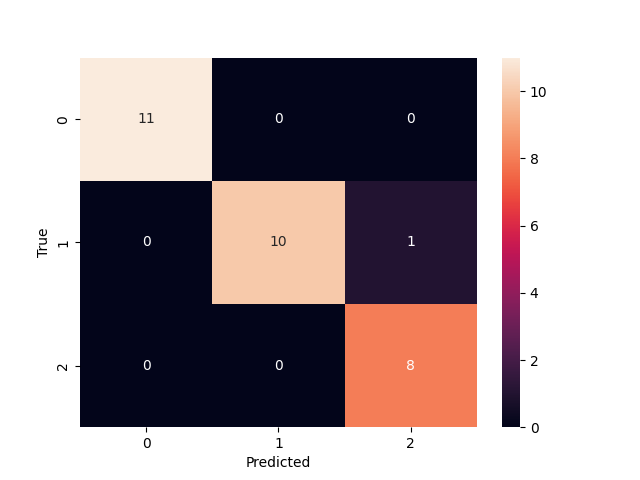
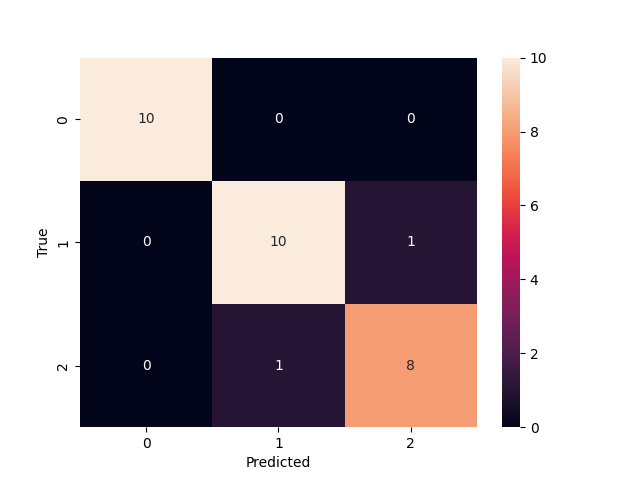
[ci skip] fix: Failing unit test 048f21cd6cc501aa32612e4ede238c9d0504c870

diff --git a/searchindex.js b/searchindex.js
@@ -1,1 +1,1 @@
-Search.setIndex({"alltitles":{"API Reference":[[0,null]],"Computation times":[[3,null],[11,null]],"Example Gallery":[[1,null]],"Examples using icrlearn.ICRRandomForestClassifier":[[4,"examples-using-icrlearn-icrrandomforestclassifier"]],"Fitting and evaluating an ICR Random Forest":[[2,null]],"ICRRandomForestClassifier":[[4,null],[12,"icrrandomforestclassifier"]],"Introduction":[[12,"introduction"]],"Predictor":[[0,"predictor"]],"Rarity Measures":[[0,"rarity-measures"],[12,"rarity-measures"]],"User Guide":[[12,null]],"Utilities":[[0,"utilities"]],"icrlearn.rarity.calculate_cb_loop":[[5,null]],"icrlearn.rarity.calculate_l2class":[[6,null]],"icrlearn.utils.discovery.all_displays":[[7,null]],"icrlearn.utils.discovery.all_estimators":[[8,null]],"icrlearn.utils.discovery.all_functions":[[9,null]],"intra-class-rare-learn Documentation":[[10,null]]},"docnames":["api","auto_examples/index","auto_examples/plot_classifier","auto_examples/sg_execution_times","generated/icrlearn.ICRRandomForestClassifier","generated/icrlearn.rarity.calculate_cb_loop","generated/icrlearn.rarity.calculate_l2class","generated/icrlearn.utils.discovery.all_displays","generated/icrlearn.utils.discovery.all_estimators","generated/icrlearn.utils.discovery.all_functions","index","sg_execution_times","user_guide"],"envversion":{"sphinx":65,"sphinx.domains.c":3,"sphinx.domains.changeset":1,"sphinx.domains.citation":1,"sphinx.domains.cpp":9,"sphinx.domains.index":1,"sphinx.domains.javascript":3,"sphinx.domains.math":2,"sphinx.domains.python":4,"sphinx.domains.rst":2,"sphinx.domains.std":2,"sphinx.ext.intersphinx":1},"filenames":["api.rst","auto_examples/index.rst","auto_examples/plot_classifier.rst","auto_examples/sg_execution_times.rst","generated/icrlearn.ICRRandomForestClassifier.rst","generated/icrlearn.rarity.calculate_cb_loop.rst","generated/icrlearn.rarity.calculate_l2class.rst","generated/icrlearn.utils.discovery.all_displays.rst","generated/icrlearn.utils.discovery.all_estimators.rst","generated/icrlearn.utils.discovery.all_functions.rst","index.rst","sg_execution_times.rst","user_guide.rst"],"indexentries":{"all_displays() (in module icrlearn.utils.discovery)":[[7,"icrlearn.utils.discovery.all_displays",false]],"all_estimators() (in module icrlearn.utils.discovery)":[[8,"icrlearn.utils.discovery.all_estimators",false]],"all_functions() (in module icrlearn.utils.discovery)":[[9,"icrlearn.utils.discovery.all_functions",false]],"apply() (icrlearn.icrrandomforestclassifier method)":[[4,"icrlearn.ICRRandomForestClassifier.apply",false]],"calculate_cb_loop() (in module icrlearn.rarity)":[[5,"icrlearn.rarity.calculate_cb_loop",false]],"calculate_l2class() (in module icrlearn.rarity)":[[6,"icrlearn.rarity.calculate_l2class",false]],"calculate_rarity_scores() (icrlearn.icrrandomforestclassifier method)":[[4,"icrlearn.ICRRandomForestClassifier.calculate_rarity_scores",false]],"decision_path() (icrlearn.icrrandomforestclassifier method)":[[4,"icrlearn.ICRRandomForestClassifier.decision_path",false]],"estimators_samples_ (icrlearn.icrrandomforestclassifier property)":[[4,"icrlearn.ICRRandomForestClassifier.estimators_samples_",false]],"feature_importances_ (icrlearn.icrrandomforestclassifier property)":[[4,"icrlearn.ICRRandomForestClassifier.feature_importances_",false]],"fit() (icrlearn.icrrandomforestclassifier method)":[[4,"icrlearn.ICRRandomForestClassifier.fit",false]],"get_metadata_routing() (icrlearn.icrrandomforestclassifier method)":[[4,"icrlearn.ICRRandomForestClassifier.get_metadata_routing",false]],"get_params() (icrlearn.icrrandomforestclassifier method)":[[4,"icrlearn.ICRRandomForestClassifier.get_params",false]],"icrrandomforestclassifier (class in icrlearn)":[[4,"icrlearn.ICRRandomForestClassifier",false]],"predict() (icrlearn.icrrandomforestclassifier method)":[[4,"icrlearn.ICRRandomForestClassifier.predict",false]],"predict_log_proba() (icrlearn.icrrandomforestclassifier method)":[[4,"icrlearn.ICRRandomForestClassifier.predict_log_proba",false]],"predict_proba() (icrlearn.icrrandomforestclassifier method)":[[4,"icrlearn.ICRRandomForestClassifier.predict_proba",false]],"score() (icrlearn.icrrandomforestclassifier method)":[[4,"icrlearn.ICRRandomForestClassifier.score",false]],"set_fit_request() (icrlearn.icrrandomforestclassifier method)":[[4,"icrlearn.ICRRandomForestClassifier.set_fit_request",false]],"set_params() (icrlearn.icrrandomforestclassifier method)":[[4,"icrlearn.ICRRandomForestClassifier.set_params",false]],"set_score_request() (icrlearn.icrrandomforestclassifier method)":[[4,"icrlearn.ICRRandomForestClassifier.set_score_request",false]]},"objects":{"icrlearn":[[4,0,1,"","ICRRandomForestClassifier"]],"icrlearn.ICRRandomForestClassifier":[[4,1,1,"","apply"],[4,1,1,"","calculate_rarity_scores"],[4,1,1,"","decision_path"],[4,2,1,"","estimators_samples_"],[4,2,1,"","feature_importances_"],[4,1,1,"","fit"],[4,1,1,"","get_metadata_routing"],[4,1,1,"","get_params"],[4,1,1,"","predict"],[4,1,1,"","predict_log_proba"],[4,1,1,"","predict_proba"],[4,1,1,"","score"],[4,1,1,"","set_fit_request"],[4,1,1,"","set_params"],[4,1,1,"","set_score_request"]],"icrlearn.rarity":[[5,3,1,"","calculate_cb_loop"],[6,3,1,"","calculate_l2class"]],"icrlearn.utils.discovery":[[7,3,1,"","all_displays"],[8,3,1,"","all_estimators"],[9,3,1,"","all_functions"]]},"objnames":{"0":["py","class","Python class"],"1":["py","method","Python method"],"2":["py","property","Python property"],"3":["py","function","Python function"]},"objtypes":{"0":"py:class","1":"py:method","2":"py:property","3":"py:function"},"terms":{"":[2,4,10],"0":[2,3,4,5,6,10,11,12],"00":[2,3,11],"01":[3,11],"064":12,"07":12,"1":[2,3,4,5,6,10,11,12],"10":[4,5,12],"100":4,"1016":12,"11":2,"1145":12,"150":12,"1645953":12,"1646195":12,"1649":12,"1652":12,"18":4,"18th":12,"2":[2,4,12],"2009":12,"2014":12,"2015":12,"2025":10,"2_min":4,"3":[4,5],"30":2,"31":10,"5":[4,6],"529":12,"542":12,"651":[2,3,11],"8":2,"89":2,"91":2,"94":2,"95":2,"96":2,"97":2,"A":[4,10,12],"For":[4,12],"If":[4,5,6,8],"In":[2,4,12],"It":[4,10,12],"That":4,"The":[4,5,6,10,12],"These":12,"To":10,"__":4,"about":12,"accordingli":12,"accuraci":[2,4],"acm":12,"across":[4,12],"actual":[7,8,9],"ad":4,"adapt":[4,12],"adjust":[4,12],"al":12,"algorithm":[4,12],"alia":4,"all":[1,4,7,8,9,11],"allow":[4,12],"also":[4,12],"altern":4,"an":[1,3,4,10,11,12],"analyz":12,"ani":4,"annot":2,"api":[10,12],"appli":[4,8,12],"ar":[4,5,6,8,10,12],"arrai":[4,5,6],"assign":[4,5,6,12],"attribut":4,"auto_exampl":3,"auto_examples_jupyt":1,"auto_examples_python":1,"avg":2,"bag":[4,12],"base":[4,5,12],"baseestim":8,"beta":6,"bia":4,"bool":[4,5],"bootstrap":[4,12],"bootstrap_sampl":4,"brought":4,"build":4,"built":[10,12],"b\u0142aszczy\u0144ski":12,"calcul":[4,5,6,12],"calculate_cb_loop":12,"calculate_l2class":12,"calculate_rarity_scor":4,"call":[4,12],"can":[4,12],"cardin":4,"carri":4,"case":[4,12],"cb":[4,5],"cb_loop":4,"cb_loop_ext":4,"cb_score":12,"ccp_alpha":4,"chang":4,"check":4,"child":4,"china":12,"class":[0,4,5,6,7,8,12],"class_weight":4,"classes_":4,"classif":[4,12],"classifi":[2,4,8,12],"classification_report":2,"clf":[2,12],"cluster":8,"code":[1,2],"column":4,"com":12,"common":[5,6],"compat":[10,12],"complex":12,"compon":4,"comput":4,"conf_matr":2,"confer":12,"configur":4,"confus":2,"confusion_matrix":2,"consid":[4,5,6],"consist":4,"contain":4,"control":4,"convert":[4,5,6],"correctli":4,"correspond":[4,12],"count":[4,6],"crawl":8,"creat":4,"criterion":4,"crucial":12,"csc_matrix":[4,5,6],"csr":4,"csr_matrix":4,"data":[4,12],"datapoint":4,"dataset":[2,4,12],"date":10,"decis":4,"decision_path":4,"deep":4,"default":[4,5,6,8],"defin":8,"demonstr":10,"densiti":12,"descript":10,"design":12,"detail":[4,5,10],"detect":12,"dict":4,"directli":4,"displai":7,"distanc":12,"document":4,"doi":12,"download":[1,2],"drawn":4,"dtype":[4,5,6],"due":12,"dure":4,"dynam":4,"e":[4,12],"each":[4,5,6],"edg":12,"either":4,"element":4,"emerg":12,"enabl":4,"enable_metadata_rout":4,"encapsul":4,"end":[2,4],"ensembl":4,"equal":4,"equat":[4,6],"error":4,"estim":[4,8,10,12],"estimators_samples_":4,"et":12,"evalu":[1,3,4,11],"exampl":[2,3,7,8,9,10,11],"execut":[3,11],"exist":[4,12],"expect":4,"expon":6,"extent":[4,5],"f1":2,"factor":12,"fals":[4,5],"featur":4,"feature_importances_":4,"feb":12,"fetch":4,"file":[3,11],"filter":8,"fit":[1,3,4,8,11,12],"float":[4,5,6],"float32":[4,5,6],"footprint":4,"forest":[1,3,4,11,12],"form":[4,12],"format":4,"fraction":4,"from":[2,3,4,7,8,9,11,12],"full":2,"function":[0,8,9],"galleri":[2,10,11],"gener":[1,2,4],"get":[4,7,8,9],"get_metadata_rout":4,"get_param":4,"gini":4,"github":12,"give":4,"given":4,"global":12,"go":2,"goe":4,"guid":[0,4,10],"h":12,"handl":[10,12],"harsh":4,"have":[4,12],"heatmap":2,"high":4,"higher":4,"highest":4,"hong":12,"how":[0,4,10,12],"howev":12,"http":12,"i":[0,4,5,6,7,8,9,10,12],"icr":[1,3,4,11],"icr_rf":4,"icrlearn":[2,12],"icrrandomforestclassifi":2,"identifi":4,"ignor":4,"imbal":12,"imbalanc":12,"impact":12,"implement":12,"import":[2,4,7,8,9,12],"impur":4,"includ":[4,8],"independ":12,"index":4,"indic":[4,5,6],"influenc":12,"inform":[0,4,12],"inherit":8,"input":[4,5,6],"insight":12,"inspect":4,"instanc":[4,12],"instead":4,"int":[4,5,6],"intern":[4,5,6,12],"intra":[0,4,12],"introductori":1,"ipynb":2,"iri":2,"its":[4,5,6,12],"j":12,"jul":10,"jupyt":[1,2],"just":12,"k":12,"kind":8,"knowledg":12,"known":4,"kong":12,"kriegel":12,"kr\u00f6ger":12,"l":4,"l2_score":12,"l2class":[4,6,12],"l2class_psi":4,"label":[4,5,6,12],"latter":4,"leaf":4,"learn":[0,4,12],"least":8,"librari":10,"like":[4,5,6],"linear":[4,6],"link":10,"list":[4,7,8,9],"littl":12,"load":2,"load_iri":[2,4],"local":[5,12],"localoutlierprob":5,"lof":12,"log":4,"loop":[4,5,12],"l\u00b2":12,"machin":12,"macro":2,"mai":[4,12],"manag":12,"mani":4,"map":4,"matplotlib":2,"matrix":[2,4,5,6],"max_depth":4,"max_featur":4,"max_leaf_nod":4,"max_sampl":4,"mb":[3,11],"mean":4,"measur":4,"mechan":4,"mem":[3,11],"member":4,"memori":4,"meta":4,"metadata":4,"metadata_rout":4,"metadatarequest":4,"method":[4,12],"metric":[2,4],"min":12,"min_impurity_decreas":4,"min_rarity_scor":4,"min_samples_leaf":4,"min_samples_split":4,"min_scor":5,"min_weight_fraction_leaf":4,"minimum":[4,5,6],"minut":2,"mislead":4,"model":[4,12],"model_select":2,"modif":12,"modifi":4,"modul":8,"monotonic_cst":4,"more":[0,4,5,12],"multi":4,"n_class":4,"n_estim":4,"n_featur":[4,5,6],"n_job":4,"n_neighbor":[4,5,6],"n_node":4,"n_nodes_ptr":4,"n_output":[4,5,6],"n_sampl":[4,5,6],"name":[4,7,8,9],"natur":12,"ndarrai":[4,5,6],"nearest":12,"neg":4,"neighbor":[4,5,6,12],"neighborhood":[4,5],"neighbourhood":12,"nest":4,"net":4,"neucom":12,"neurocomput":12,"new":[10,12],"node":4,"non":4,"none":[4,8],"normal":4,"note":4,"notebook":[1,2],"nov":12,"novel":12,"np":[4,5,6],"number":[4,5,6],"object":4,"offer":12,"often":12,"one":[4,8],"onli":[4,8],"oob_scor":4,"option":4,"order":4,"origin":4,"other":[4,6],"outlier":[5,12],"overview":10,"p":[4,12],"packag":[0,10,12],"param":4,"paramet":[4,5,6,8],"pass":4,"path":4,"pattern":12,"permutation_import":4,"pipelin":4,"place":10,"pleas":4,"plot":2,"plot_classifi":[2,3,11],"plt":2,"possibl":[4,8],"pp":12,"precis":2,"predict":[2,4,12],"predict_log_proba":4,"predict_proba":4,"print":[2,5],"probabl":[4,5,12],"proceed":12,"process":[4,5],"properti":4,"provid":[4,5,6,10,12],"psi":[4,6],"py":[2,3,11],"pynomali":[4,5,12],"pyplot":2,"python":[1,2],"quantifi":12,"r":4,"rais":4,"random":[1,3,4,11,12],"random_st":4,"randomforestclassifi":4,"rang":[5,6,12],"rare":[0,4,5,6,12],"rariti":[4,10],"rarity_adjustment_method":4,"rarity_measur":[4,12],"rarity_scor":4,"re":4,"real":4,"recal":2,"reduc":4,"reduct":4,"refer":[10,12],"regress":4,"regressor":8,"rel":12,"relev":4,"repositori":10,"repres":12,"request":4,"requir":4,"respect":12,"result":4,"retain":4,"return":[4,5,6,7,8,9],"return_x_i":[2,4],"reveal":12,"rf":4,"right":10,"root":4,"rout":4,"run":2,"same":4,"sampl":[4,5,6,12],"sample_weight":4,"scale":[4,6],"schubert":12,"scikit":4,"score":[2,4,5,6,12],"script":2,"seaborn":2,"search":4,"second":2,"see":[4,5],"self":4,"sens":12,"sensit":4,"set":[2,4,5,6,10,12],"set_config":4,"set_fit_request":4,"set_param":4,"set_score_request":4,"shape":[4,5,6],"should":[4,8],"show":2,"signific":12,"simpl":4,"sinc":4,"singl":4,"sklearn":[2,4,10,12],"slower":4,"smaller":5,"sn":2,"so":4,"some":[2,4],"sourc":[1,2,10],"spars":[4,5,6],"special":12,"specif":8,"specifi":12,"sphinx":[1,2],"split":[2,4],"sqrt":4,"start":10,"stefanowski":12,"store":4,"str":[4,8],"string":[7,8,9],"structur":12,"sub":4,"subconcept":12,"subobject":4,"subpopul":12,"subset":4,"sum":4,"support":[2,4],"t":4,"taken":5,"target":4,"task":12,"test":[2,4,8],"test_siz":2,"th":4,"than":[4,5],"thei":[4,12],"them":4,"therefor":12,"thi":[0,2,4,8,10,12],"through":4,"thu":4,"time":[2,5],"total":[2,3,4,11],"toward":4,"tradit":12,"train":[2,4,12],"train_test_split":2,"transform":8,"tree":4,"true":[2,4,5,12],"tupl":[7,8,9],"two":12,"type":[7,8],"type_filt":8,"unchang":4,"uncommon":12,"understand":12,"uniqu":4,"unless":4,"up":4,"updat":4,"us":[0,10,12],"user":[0,4,10],"usual":12,"util":4,"valu":[4,8],"valuabl":12,"vc1492a":12,"verbos":4,"version":[4,10],"vol":12,"vote":4,"w":4,"warm_start":4,"warn":4,"we":2,"weight":[2,4,12],"well":4,"when":4,"where":[4,5,6,7,8,9],"whether":4,"which":[4,8],"while":4,"whole":12,"wide":4,"within":[4,10,12],"work":4,"would":4,"x":[2,4,5,6,12],"x_leav":4,"x_test":[2,12],"x_train":[2,12],"xlabel":2,"y":[2,4,5,6,12],"y_pred":[2,12],"y_test":2,"y_train":[2,12],"ylabel":2,"you":[4,10],"zero":4,"zimek":12,"zip":[1,2]},"titles":["API Reference","Example Gallery","Fitting and evaluating an ICR Random Forest","Computation times","ICRRandomForestClassifier","icrlearn.rarity.calculate_cb_loop","icrlearn.rarity.calculate_l2class","icrlearn.utils.discovery.all_displays","icrlearn.utils.discovery.all_estimators","icrlearn.utils.discovery.all_functions","intra-class-rare-learn Documentation","Computation times","User guide : contents"],"titleterms":{"all_displai":7,"all_estim":8,"all_funct":9,"an":2,"api":0,"calculate_cb_loop":5,"calculate_l2class":6,"class":10,"comput":[3,11],"discoveri":[7,8,9],"document":10,"evalu":2,"exampl":[1,4],"fit":2,"forest":2,"galleri":1,"guid":12,"icr":2,"icrlearn":[4,5,6,7,8,9],"icrrandomforestclassifi":[4,12],"intra":10,"introduct":12,"learn":10,"measur":[0,12],"predictor":0,"random":2,"rare":10,"rariti":[0,5,6,12],"refer":0,"time":[3,11],"us":4,"user":12,"util":[0,7,8,9]}})
+Search.setIndex({"alltitles":{"API Reference":[[0,null]],"Computation times":[[3,null],[11,null]],"Example Gallery":[[1,null]],"Examples using icrlearn.ICRRandomForestClassifier":[[4,"examples-using-icrlearn-icrrandomforestclassifier"]],"Fitting and evaluating an ICR Random Forest":[[2,null]],"ICRRandomForestClassifier":[[4,null],[12,"icrrandomforestclassifier"]],"Introduction":[[12,"introduction"]],"Predictor":[[0,"predictor"]],"Rarity Measures":[[0,"rarity-measures"],[12,"rarity-measures"]],"User Guide":[[12,null]],"Utilities":[[0,"utilities"]],"icrlearn.rarity.calculate_cb_loop":[[5,null]],"icrlearn.rarity.calculate_l2class":[[6,null]],"icrlearn.utils.discovery.all_displays":[[7,null]],"icrlearn.utils.discovery.all_estimators":[[8,null]],"icrlearn.utils.discovery.all_functions":[[9,null]],"intra-class-rare-learn Documentation":[[10,null]]},"docnames":["api","auto_examples/index","auto_examples/plot_classifier","auto_examples/sg_execution_times","generated/icrlearn.ICRRandomForestClassifier","generated/icrlearn.rarity.calculate_cb_loop","generated/icrlearn.rarity.calculate_l2class","generated/icrlearn.utils.discovery.all_displays","generated/icrlearn.utils.discovery.all_estimators","generated/icrlearn.utils.discovery.all_functions","index","sg_execution_times","user_guide"],"envversion":{"sphinx":65,"sphinx.domains.c":3,"sphinx.domains.changeset":1,"sphinx.domains.citation":1,"sphinx.domains.cpp":9,"sphinx.domains.index":1,"sphinx.domains.javascript":3,"sphinx.domains.math":2,"sphinx.domains.python":4,"sphinx.domains.rst":2,"sphinx.domains.std":2,"sphinx.ext.intersphinx":1},"filenames":["api.rst","auto_examples/index.rst","auto_examples/plot_classifier.rst","auto_examples/sg_execution_times.rst","generated/icrlearn.ICRRandomForestClassifier.rst","generated/icrlearn.rarity.calculate_cb_loop.rst","generated/icrlearn.rarity.calculate_l2class.rst","generated/icrlearn.utils.discovery.all_displays.rst","generated/icrlearn.utils.discovery.all_estimators.rst","generated/icrlearn.utils.discovery.all_functions.rst","index.rst","sg_execution_times.rst","user_guide.rst"],"indexentries":{"all_displays() (in module icrlearn.utils.discovery)":[[7,"icrlearn.utils.discovery.all_displays",false]],"all_estimators() (in module icrlearn.utils.discovery)":[[8,"icrlearn.utils.discovery.all_estimators",false]],"all_functions() (in module icrlearn.utils.discovery)":[[9,"icrlearn.utils.discovery.all_functions",false]],"apply() (icrlearn.icrrandomforestclassifier method)":[[4,"icrlearn.ICRRandomForestClassifier.apply",false]],"calculate_cb_loop() (in module icrlearn.rarity)":[[5,"icrlearn.rarity.calculate_cb_loop",false]],"calculate_l2class() (in module icrlearn.rarity)":[[6,"icrlearn.rarity.calculate_l2class",false]],"calculate_rarity_scores() (icrlearn.icrrandomforestclassifier method)":[[4,"icrlearn.ICRRandomForestClassifier.calculate_rarity_scores",false]],"decision_path() (icrlearn.icrrandomforestclassifier method)":[[4,"icrlearn.ICRRandomForestClassifier.decision_path",false]],"estimators_samples_ (icrlearn.icrrandomforestclassifier property)":[[4,"icrlearn.ICRRandomForestClassifier.estimators_samples_",false]],"feature_importances_ (icrlearn.icrrandomforestclassifier property)":[[4,"icrlearn.ICRRandomForestClassifier.feature_importances_",false]],"fit() (icrlearn.icrrandomforestclassifier method)":[[4,"icrlearn.ICRRandomForestClassifier.fit",false]],"get_metadata_routing() (icrlearn.icrrandomforestclassifier method)":[[4,"icrlearn.ICRRandomForestClassifier.get_metadata_routing",false]],"get_params() (icrlearn.icrrandomforestclassifier method)":[[4,"icrlearn.ICRRandomForestClassifier.get_params",false]],"icrrandomforestclassifier (class in icrlearn)":[[4,"icrlearn.ICRRandomForestClassifier",false]],"predict() (icrlearn.icrrandomforestclassifier method)":[[4,"icrlearn.ICRRandomForestClassifier.predict",false]],"predict_log_proba() (icrlearn.icrrandomforestclassifier method)":[[4,"icrlearn.ICRRandomForestClassifier.predict_log_proba",false]],"predict_proba() (icrlearn.icrrandomforestclassifier method)":[[4,"icrlearn.ICRRandomForestClassifier.predict_proba",false]],"score() (icrlearn.icrrandomforestclassifier method)":[[4,"icrlearn.ICRRandomForestClassifier.score",false]],"set_fit_request() (icrlearn.icrrandomforestclassifier method)":[[4,"icrlearn.ICRRandomForestClassifier.set_fit_request",false]],"set_params() (icrlearn.icrrandomforestclassifier method)":[[4,"icrlearn.ICRRandomForestClassifier.set_params",false]],"set_score_request() (icrlearn.icrrandomforestclassifier method)":[[4,"icrlearn.ICRRandomForestClassifier.set_score_request",false]]},"objects":{"icrlearn":[[4,0,1,"","ICRRandomForestClassifier"]],"icrlearn.ICRRandomForestClassifier":[[4,1,1,"","apply"],[4,1,1,"","calculate_rarity_scores"],[4,1,1,"","decision_path"],[4,2,1,"","estimators_samples_"],[4,2,1,"","feature_importances_"],[4,1,1,"","fit"],[4,1,1,"","get_metadata_routing"],[4,1,1,"","get_params"],[4,1,1,"","predict"],[4,1,1,"","predict_log_proba"],[4,1,1,"","predict_proba"],[4,1,1,"","score"],[4,1,1,"","set_fit_request"],[4,1,1,"","set_params"],[4,1,1,"","set_score_request"]],"icrlearn.rarity":[[5,3,1,"","calculate_cb_loop"],[6,3,1,"","calculate_l2class"]],"icrlearn.utils.discovery":[[7,3,1,"","all_displays"],[8,3,1,"","all_estimators"],[9,3,1,"","all_functions"]]},"objnames":{"0":["py","class","Python class"],"1":["py","method","Python method"],"2":["py","property","Python property"],"3":["py","function","Python function"]},"objtypes":{"0":"py:class","1":"py:method","2":"py:property","3":"py:function"},"terms":{"":[2,4,10],"0":[2,3,4,5,6,10,11,12],"00":[2,3,11],"01":[3,11],"064":12,"07":12,"1":[2,3,4,5,6,10,11,12],"10":[2,4,5,12],"100":4,"1016":12,"11":2,"1145":12,"150":12,"1645953":12,"1646195":12,"1649":12,"1652":12,"18":4,"18th":12,"2":[2,4,12],"2009":12,"2014":12,"2015":12,"2025":10,"2_min":4,"3":[4,5],"30":2,"31":10,"5":[4,6],"529":12,"542":12,"764":[2,3,11],"89":2,"9":2,"91":2,"93":2,"A":[4,10,12],"For":[4,12],"If":[4,5,6,8],"In":[2,4,12],"It":[4,10,12],"That":4,"The":[4,5,6,10,12],"These":12,"To":10,"__":4,"about":12,"accordingli":12,"accuraci":[2,4],"acm":12,"across":[4,12],"actual":[7,8,9],"ad":4,"adapt":[4,12],"adjust":[4,12],"al":12,"algorithm":[4,12],"alia":4,"all":[1,4,7,8,9,11],"allow":[4,12],"also":[4,12],"altern":4,"an":[1,3,4,10,11,12],"analyz":12,"ani":4,"annot":2,"api":[10,12],"appli":[4,8,12],"ar":[4,5,6,8,10,12],"arrai":[4,5,6],"assign":[4,5,6,12],"attribut":4,"auto_exampl":3,"auto_examples_jupyt":1,"auto_examples_python":1,"avg":2,"bag":[4,12],"base":[4,5,12],"baseestim":8,"beta":6,"bia":4,"bool":[4,5],"bootstrap":[4,12],"bootstrap_sampl":4,"brought":4,"build":4,"built":[10,12],"b\u0142aszczy\u0144ski":12,"calcul":[4,5,6,12],"calculate_cb_loop":12,"calculate_l2class":12,"calculate_rarity_scor":4,"call":[4,12],"can":[4,12],"cardin":4,"carri":4,"case":[4,12],"cb":[4,5],"cb_loop":4,"cb_loop_ext":4,"cb_score":12,"ccp_alpha":4,"chang":4,"check":4,"child":4,"china":12,"class":[0,4,5,6,7,8,12],"class_weight":4,"classes_":4,"classif":[4,12],"classifi":[2,4,8,12],"classification_report":2,"clf":[2,12],"cluster":8,"code":[1,2],"column":4,"com":12,"common":[5,6],"compat":[10,12],"complex":12,"compon":4,"comput":4,"conf_matr":2,"confer":12,"configur":4,"confus":2,"confusion_matrix":2,"consid":[4,5,6],"consist":4,"contain":4,"control":4,"convert":[4,5,6],"correctli":4,"correspond":[4,12],"count":[4,6],"crawl":8,"creat":4,"criterion":4,"crucial":12,"csc_matrix":[4,5,6],"csr":4,"csr_matrix":4,"data":[4,12],"datapoint":4,"dataset":[2,4,12],"date":10,"decis":4,"decision_path":4,"deep":4,"default":[4,5,6,8],"defin":8,"demonstr":10,"densiti":12,"descript":10,"design":12,"detail":[4,5,10],"detect":12,"dict":4,"directli":4,"displai":7,"distanc":12,"document":4,"doi":12,"download":[1,2],"drawn":4,"dtype":[4,5,6],"due":12,"dure":4,"dynam":4,"e":[4,12],"each":[4,5,6],"edg":12,"either":4,"element":4,"emerg":12,"enabl":4,"enable_metadata_rout":4,"encapsul":4,"end":[2,4],"ensembl":4,"equal":4,"equat":[4,6],"error":4,"estim":[4,8,10,12],"estimators_samples_":4,"et":12,"evalu":[1,3,4,11],"exampl":[2,3,7,8,9,10,11],"execut":[3,11],"exist":[4,12],"expect":4,"expon":6,"extent":[4,5],"f1":2,"factor":12,"fals":[4,5],"featur":4,"feature_importances_":4,"feb":12,"fetch":4,"file":[3,11],"filter":8,"fit":[1,3,4,8,11,12],"float":[4,5,6],"float32":[4,5,6],"footprint":4,"forest":[1,3,4,11,12],"form":[4,12],"format":4,"fraction":4,"from":[2,3,4,7,8,9,11,12],"full":2,"function":[0,8,9],"galleri":[2,10,11],"gener":[1,2,4],"get":[4,7,8,9],"get_metadata_rout":4,"get_param":4,"gini":4,"github":12,"give":4,"given":4,"global":12,"go":2,"goe":4,"guid":[0,4,10],"h":12,"handl":[10,12],"harsh":4,"have":[4,12],"heatmap":2,"high":4,"higher":4,"highest":4,"hong":12,"how":[0,4,10,12],"howev":12,"http":12,"i":[0,4,5,6,7,8,9,10,12],"icr":[1,3,4,11],"icr_rf":4,"icrlearn":[2,12],"icrrandomforestclassifi":2,"identifi":4,"ignor":4,"imbal":12,"imbalanc":12,"impact":12,"implement":12,"import":[2,4,7,8,9,12],"impur":4,"includ":[4,8],"independ":12,"index":4,"indic":[4,5,6],"influenc":12,"inform":[0,4,12],"inherit":8,"input":[4,5,6],"insight":12,"inspect":4,"instanc":[4,12],"instead":4,"int":[4,5,6],"intern":[4,5,6,12],"intra":[0,4,12],"introductori":1,"ipynb":2,"iri":2,"its":[4,5,6,12],"j":12,"jul":10,"jupyt":[1,2],"just":12,"k":12,"kind":8,"knowledg":12,"known":4,"kong":12,"kriegel":12,"kr\u00f6ger":12,"l":4,"l2_score":12,"l2class":[4,6,12],"l2class_psi":4,"label":[4,5,6,12],"latter":4,"leaf":4,"learn":[0,4,12],"least":8,"librari":10,"like":[4,5,6],"linear":[4,6],"link":10,"list":[4,7,8,9],"littl":12,"load":2,"load_iri":[2,4],"local":[5,12],"localoutlierprob":5,"lof":12,"log":4,"loop":[4,5,12],"l\u00b2":12,"machin":12,"macro":2,"mai":[4,12],"manag":12,"mani":4,"map":4,"matplotlib":2,"matrix":[2,4,5,6],"max_depth":4,"max_featur":4,"max_leaf_nod":4,"max_sampl":4,"mb":[3,11],"mean":4,"measur":4,"mechan":4,"mem":[3,11],"member":4,"memori":4,"meta":4,"metadata":4,"metadata_rout":4,"metadatarequest":4,"method":[4,12],"metric":[2,4],"min":12,"min_impurity_decreas":4,"min_rarity_scor":4,"min_samples_leaf":4,"min_samples_split":4,"min_scor":5,"min_weight_fraction_leaf":4,"minimum":[4,5,6],"minut":2,"mislead":4,"model":[4,12],"model_select":2,"modif":12,"modifi":4,"modul":8,"monotonic_cst":4,"more":[0,4,5,12],"multi":4,"n_class":4,"n_estim":4,"n_featur":[4,5,6],"n_job":4,"n_neighbor":[4,5,6],"n_node":4,"n_nodes_ptr":4,"n_output":[4,5,6],"n_sampl":[4,5,6],"name":[4,7,8,9],"natur":12,"ndarrai":[4,5,6],"nearest":12,"neg":4,"neighbor":[4,5,6,12],"neighborhood":[4,5],"neighbourhood":12,"nest":4,"net":4,"neucom":12,"neurocomput":12,"new":[10,12],"node":4,"non":4,"none":[4,8],"normal":4,"note":4,"notebook":[1,2],"nov":12,"novel":12,"np":[4,5,6],"number":[4,5,6],"object":4,"offer":12,"often":12,"one":[4,8],"onli":[4,8],"oob_scor":4,"option":4,"order":4,"origin":4,"other":[4,6],"outlier":[5,12],"overview":10,"p":[4,12],"packag":[0,10,12],"param":4,"paramet":[4,5,6,8],"pass":4,"path":4,"pattern":12,"permutation_import":4,"pipelin":4,"place":10,"pleas":4,"plot":2,"plot_classifi":[2,3,11],"plt":2,"possibl":[4,8],"pp":12,"precis":2,"predict":[2,4,12],"predict_log_proba":4,"predict_proba":4,"print":[2,5],"probabl":[4,5,12],"proceed":12,"process":[4,5],"properti":4,"provid":[4,5,6,10,12],"psi":[4,6],"py":[2,3,11],"pynomali":[4,5,12],"pyplot":2,"python":[1,2],"quantifi":12,"r":4,"rais":4,"random":[1,3,4,11,12],"random_st":4,"randomforestclassifi":4,"rang":[5,6,12],"rare":[0,4,5,6,12],"rariti":[4,10],"rarity_adjustment_method":4,"rarity_measur":[4,12],"rarity_scor":4,"re":4,"real":4,"recal":2,"reduc":4,"reduct":4,"refer":[10,12],"regress":4,"regressor":8,"rel":12,"relev":4,"repositori":10,"repres":12,"request":4,"requir":4,"respect":12,"result":4,"retain":4,"return":[4,5,6,7,8,9],"return_x_i":[2,4],"reveal":12,"rf":4,"right":10,"root":4,"rout":4,"run":2,"same":4,"sampl":[4,5,6,12],"sample_weight":4,"scale":[4,6],"schubert":12,"scikit":4,"score":[2,4,5,6,12],"script":2,"seaborn":2,"search":4,"second":2,"see":[4,5],"self":4,"sens":12,"sensit":4,"set":[2,4,5,6,10,12],"set_config":4,"set_fit_request":4,"set_param":4,"set_score_request":4,"shape":[4,5,6],"should":[4,8],"show":2,"signific":12,"simpl":4,"sinc":4,"singl":4,"sklearn":[2,4,10,12],"slower":4,"smaller":5,"sn":2,"so":4,"some":[2,4],"sourc":[1,2,10],"spars":[4,5,6],"special":12,"specif":8,"specifi":12,"sphinx":[1,2],"split":[2,4],"sqrt":4,"start":10,"stefanowski":12,"store":4,"str":[4,8],"string":[7,8,9],"structur":12,"sub":4,"subconcept":12,"subobject":4,"subpopul":12,"subset":4,"sum":4,"support":[2,4],"t":4,"taken":5,"target":4,"task":12,"test":[2,4,8],"test_siz":2,"th":4,"than":[4,5],"thei":[4,12],"them":4,"therefor":12,"thi":[0,2,4,8,10,12],"through":4,"thu":4,"time":[2,5],"total":[2,3,4,11],"toward":4,"tradit":12,"train":[2,4,12],"train_test_split":2,"transform":8,"tree":4,"true":[2,4,5,12],"tupl":[7,8,9],"two":12,"type":[7,8],"type_filt":8,"unchang":4,"uncommon":12,"understand":12,"uniqu":4,"unless":4,"up":4,"updat":4,"us":[0,10,12],"user":[0,4,10],"usual":12,"util":4,"valu":[4,8],"valuabl":12,"vc1492a":12,"verbos":4,"version":[4,10],"vol":12,"vote":4,"w":4,"warm_start":4,"warn":4,"we":2,"weight":[2,4,12],"well":4,"when":4,"where":[4,5,6,7,8,9],"whether":4,"which":[4,8],"while":4,"whole":12,"wide":4,"within":[4,10,12],"work":4,"would":4,"x":[2,4,5,6,12],"x_leav":4,"x_test":[2,12],"x_train":[2,12],"xlabel":2,"y":[2,4,5,6,12],"y_pred":[2,12],"y_test":2,"y_train":[2,12],"ylabel":2,"you":[4,10],"zero":4,"zimek":12,"zip":[1,2]},"titles":["API Reference","Example Gallery","Fitting and evaluating an ICR Random Forest","Computation times","ICRRandomForestClassifier","icrlearn.rarity.calculate_cb_loop","icrlearn.rarity.calculate_l2class","icrlearn.utils.discovery.all_displays","icrlearn.utils.discovery.all_estimators","icrlearn.utils.discovery.all_functions","intra-class-rare-learn Documentation","Computation times","User guide : contents"],"titleterms":{"all_displai":7,"all_estim":8,"all_funct":9,"an":2,"api":0,"calculate_cb_loop":5,"calculate_l2class":6,"class":10,"comput":[3,11],"discoveri":[7,8,9],"document":10,"evalu":2,"exampl":[1,4],"fit":2,"forest":2,"galleri":1,"guid":12,"icr":2,"icrlearn":[4,5,6,7,8,9],"icrrandomforestclassifi":[4,12],"intra":10,"introduct":12,"learn":10,"measur":[0,12],"predictor":0,"random":2,"rare":10,"rariti":[0,5,6,12],"refer":0,"time":[3,11],"us":4,"user":12,"util":[0,7,8,9]}})

diff --git a/auto_examples/plot_classifier.html b/auto_examples/plot_classifier.html
@@ -405,13 +405,13 @@ to download the full example code.</p>
 </div>
 <div class="sphx-glr-script-out highlight-none notranslate"><div class="highlight"><pre><span></span>              precision    recall  f1-score   support
 
-           0       1.00      1.00      1.00        11
-           1       1.00      0.91      0.95        11
-           2       0.89      1.00      0.94         8
+           0       1.00      1.00      1.00        10
+           1       0.91      0.91      0.91        11
+           2       0.89      0.89      0.89         9
 
-    accuracy                           0.97        30
-   macro avg       0.96      0.97      0.96        30
-weighted avg       0.97      0.97      0.97        30
+    accuracy                           0.93        30
+   macro avg       0.93      0.93      0.93        30
+weighted avg       0.93      0.93      0.93        30
 </pre></div>
 </div>
 <p>Plot a confusion matrix of the classifier’s predictions</p>
@@ -426,7 +426,7 @@ weighted avg       0.97      0.97      0.97        30
 <a href="https://matplotlib.org/stable/api/_as_gen/matplotlib.pyplot.show.html#matplotlib.pyplot.show" title="matplotlib.pyplot.show" class="sphx-glr-backref-module-matplotlib-pyplot sphx-glr-backref-type-py-function"><span class="n">plt</span><span class="o">.</span><span class="n">show</span></a><span class="p">()</span>
 </pre></div>
 </div>
-<img src="../_images/sphx_glr_plot_classifier_001.png" srcset="../_images/sphx_glr_plot_classifier_001.png" alt="plot classifier" class = "sphx-glr-single-img"/><p class="sphx-glr-timing"><strong>Total running time of the script:</strong> (0 minutes 1.651 seconds)</p>
+<img src="../_images/sphx_glr_plot_classifier_001.png" srcset="../_images/sphx_glr_plot_classifier_001.png" alt="plot classifier" class = "sphx-glr-single-img"/><p class="sphx-glr-timing"><strong>Total running time of the script:</strong> (0 minutes 1.764 seconds)</p>
 <div class="sphx-glr-footer sphx-glr-footer-example docutils container" id="sphx-glr-download-auto-examples-plot-classifier-py">
 <div class="sphx-glr-download sphx-glr-download-jupyter docutils container">
 <p><a class="reference download internal" download="" href="../_downloads/fed3e85cac62fc93e088aa8cb008d467/plot_classifier.ipynb"><code class="xref download docutils literal notranslate"><span class="pre">Download</span> <span class="pre">Jupyter</span> <span class="pre">notebook:</span> <span class="pre">plot_classifier.ipynb</span></code></a></p>

diff --git a/sg_execution_times.html b/sg_execution_times.html
@@ -359,7 +359,7 @@
                   
   <section id="computation-times">
 <span id="sphx-glr-sg-execution-times"></span><h1>Computation times<a class="headerlink" href="#computation-times" title="Link to this heading">#</a></h1>
-<p><strong>00:01.651</strong> total execution time for 1 file <strong>from all galleries</strong>:</p>
+<p><strong>00:01.764</strong> total execution time for 1 file <strong>from all galleries</strong>:</p>
 <div class="docutils container">
 <style scoped>
 <link href="https://cdnjs.cloudflare.com/ajax/libs/twitter-bootstrap/5.3.0/css/bootstrap.min.css" rel="stylesheet" />
@@ -381,7 +381,7 @@ $(document).ready( function () {
 </thead>
 <tbody>
 <tr class="row-even"><td><p><a class="reference internal" href="auto_examples/plot_classifier.html#sphx-glr-auto-examples-plot-classifier-py"><span class="std std-ref">Fitting and evaluating an ICR Random Forest</span></a> (<code class="docutils literal notranslate"><span class="pre">../examples/plot_classifier.py</span></code>)</p></td>
-<td><p>00:01.651</p></td>
+<td><p>00:01.764</p></td>
 <td><p>0.0</p></td>
 </tr>
 </tbody>

diff --git a/auto_examples/sg_execution_times.html b/auto_examples/sg_execution_times.html
@@ -359,7 +359,7 @@
                   
   <section id="computation-times">
 <span id="sphx-glr-auto-examples-sg-execution-times"></span><h1>Computation times<a class="headerlink" href="#computation-times" title="Link to this heading">#</a></h1>
-<p><strong>00:01.651</strong> total execution time for 1 file <strong>from auto_examples</strong>:</p>
+<p><strong>00:01.764</strong> total execution time for 1 file <strong>from auto_examples</strong>:</p>
 <div class="docutils container">
 <style scoped>
 <link href="https://cdnjs.cloudflare.com/ajax/libs/twitter-bootstrap/5.3.0/css/bootstrap.min.css" rel="stylesheet" />
@@ -381,7 +381,7 @@ $(document).ready( function () {
 </thead>
 <tbody>
 <tr class="row-even"><td><p><a class="reference internal" href="plot_classifier.html#sphx-glr-auto-examples-plot-classifier-py"><span class="std std-ref">Fitting and evaluating an ICR Random Forest</span></a> (<code class="docutils literal notranslate"><span class="pre">plot_classifier.py</span></code>)</p></td>
-<td><p>00:01.651</p></td>
+<td><p>00:01.764</p></td>
 <td><p>0.0</p></td>
 </tr>
 </tbody>
